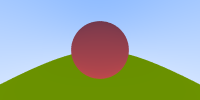
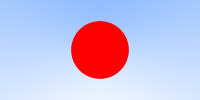
finished textures, untested

diff --git a/source/main.cpp b/source/main.cpp
@@ -14,6 +14,10 @@
 #include "Material.h"
 #include "Lambertian.h"
 
+#include "Texture.h"
+#include "ConstantTexture.h"
+#include "CheckerTexture.h"
+
 using namespace rtow::render;
 using namespace rtow::math;
 using namespace rtow::scene;
@@ -21,24 +25,16 @@ using namespace rtow::scene;
 Vector3
 getColor (
     Ray p_r,
-    Intersectable* p_world,
+    Intersectable *p_world,
     int p_depth=0
 ) {
     Intersection intersectionRecord;
     bool primaryRayHit = p_world->intersect(p_r, 0.01f, 100.0f, intersectionRecord);
 
-    if (primaryRayHit && p_depth < 1) {
+    if (primaryRayHit) {
         Ray scatterRay;
         Vector3 attenuation;
-        
-//        std::cout << "Ray O " << p_r.origin() << std::endl;
-//        std::cout << "Ray D " << p_r.direction() << std::endl;
-        
-//        std::cout << "IR P " << intersectionRecord.point << std::endl;
-//        std::cout << "IR D " << intersectionRecord.distance << std::endl;
-//        std::cout << "IR N " << intersectionRecord.normal << std::endl;
-//        std::cout << "IR M " << &intersectionRecord.material << std::endl;
-      
+/*
         bool scatterRayHit = intersectionRecord.material->scatter(
             p_r, 
             intersectionRecord,
@@ -46,17 +42,11 @@ getColor (
             scatterRay
         );
 
-//        std::cout << "SRay O " << scatterRay.origin() << std::endl;
-//        std::cout << "SRay D " << scatterRay.direction() << std::endl;
-        
-//        std::cout << "A " << attenuation << std::endl;
-//        std::cout << std::endl;
-    
-        if (scatterRayHit) {
+        if (scatterRayHit && p_depth < 1) {
             return attenuation * getColor(scatterRay, p_world, p_depth+1);
         } else {
             return Vector3(0,0,0);
-        }
+        }*/ return Vector3(1,0,0);
     }
 
     else {
@@ -68,8 +58,8 @@ getColor (
 
 int main() {
     Intersectable *world = new IntersectableList({
-        new Sphere(Vector3(0, 0, -1), 0.5f, new Lambertian(Vector3(0.8, 0.3, 0.3))),
-        new Sphere(Vector3(0, -100.5, -50), 100.0f, new Lambertian(Vector3(0.8, 0.8, 0.0)))
+        new Sphere(Vector3(0, 0, -1), 0.5f, new Lambertian(new ConstantTexture(Vector3(0.8, 0.3, 0.3)))),
+       // new Sphere(Vector3(0, -100.5, -50), 100.0f, new Lambertian(Vector3(0.8, 0.8, 0.0)))
     });
 
     uint numSamples = 100;

diff --git a/source/CheckerTexture.cpp b/source/CheckerTexture.cpp
@@ -1,0 +1,36 @@
+
+#include "CheckerTexture.h"
+
+using namespace rtow::render;
+
+CheckerTexture::CheckerTexture (
+    Texture *p_even,
+    Texture *p_odd
+) {
+    m_even = p_even;
+    m_odd = p_odd;
+}
+
+CheckerTexture::~CheckerTexture () {
+    free(m_even);
+    free(m_odd);
+}
+
+Vector3
+CheckerTexture::value (
+    float p_ts_x,
+    float p_ts_y,
+    Vector3 p_ws_xyz
+) {
+    int tileWidth = 10;
+    float sines = 
+        sin(tileWidth * p_ws_xyz.x()) 
+      * sin(tileWidth * p_ws_xyz.y())
+      * sin(tileWidth * p_ws_xyz.z());
+
+    if (sines < 0) {
+        return m_odd->value(p_ts_x, p_ts_y, p_ws_xyz);
+    }  else {
+        return m_even->value(p_ts_x, p_ts_y, p_ws_xyz);
+    }
+}

diff --git a/include/Lambertian.h b/include/Lambertian.h
@@ -2,6 +2,7 @@
 #pragma once
 
 #include "Material.h"
+#include "Texture.h"
 #include "Random.h"
 #include "Vector3.h"
 
@@ -12,11 +13,13 @@ namespace rtow {
     namespace render {
         class Lambertian : public Material {
             public:
-                Lambertian (Vector3 albedo);
+                Lambertian (Texture *albedo);
+                ~Lambertian ();
+
                 virtual bool scatter (Ray in, Intersection record, Vector3 &attentuation, Ray &out);
 
             private:
-                Vector3 m_albedo;
+                Texture *m_albedo;
         };
     };
 };

diff --git a/source/Lambertian.cpp b/source/Lambertian.cpp
@@ -3,12 +3,14 @@
 
 using namespace rtow::render;
 
-#include <iostream>
-
 Lambertian::Lambertian (
-    Vector3 p_albedo
+    Texture *p_albedo
 ) {
     m_albedo = p_albedo;
+}
+
+Lambertian::~Lambertian () {
+    free(m_albedo);
 }
 
 bool
@@ -18,9 +20,7 @@ Lambertian::scatter (
     Vector3 &p_attenuation, 
     Ray &p_scatterOut
 ) {
-//    std::cout << "in scatter" << std::endl;
-
-    p_attenuation = m_albedo;
+    p_attenuation = m_albedo->value(0, 0, p_record.point);
     p_scatterOut = Ray(
         p_record.point, 
         p_record.normal

diff --git a/include/CheckerTexture.h b/include/CheckerTexture.h
@@ -1,0 +1,20 @@
+
+#pragma once
+
+#include "Texture.h"
+
+namespace rtow {
+    namespace render {
+        class CheckerTexture : public Texture {
+            public:
+                CheckerTexture (Texture *even, Texture *odd);
+                ~CheckerTexture();
+
+                virtual Vector3 value (float ts_x, float ts_y, Vector3 ws_xyz);
+
+            private:
+                Texture *m_even;
+                Texture *m_odd;
+        };
+    };
+};

diff --git a/include/ConstantTexture.h b/include/ConstantTexture.h
@@ -1,0 +1,18 @@
+
+#pragma once
+
+#include "Vector3.h"
+#include "Texture.h"
+
+namespace rtow {
+    namespace render {
+        class ConstantTexture : public Texture {
+            public:
+                ConstantTexture (Vector3 rgb);
+                virtual Vector3 value (float ts_x, float ts_y, Vector3 ws_xyz);
+            
+            private:
+                Vector3 m_color;
+        };
+    };
+};

diff --git a/source/ConstantTexture.cpp b/source/ConstantTexture.cpp
@@ -1,0 +1,19 @@
+
+#include "ConstantTexture.h"
+
+using namespace rtow::render;
+
+ConstantTexture::ConstantTexture(
+    Vector3 p_rgb
+) {
+    m_color = p_rgb;
+}
+
+Vector3
+ConstantTexture::value (
+    float p_ts_x, 
+    float p_ts_y, 
+    Vector3 p_ws_xyz
+) {
+    return m_color;
+}

diff --git a/include/Texture.h b/include/Texture.h
@@ -1,0 +1,15 @@
+
+#pragma once
+
+#include "Vector3.h"
+
+using namespace rtow::math;
+
+namespace rtow {
+    namespace render {
+        class Texture {
+            public:
+                virtual Vector3 value (float ts_x, float ts_y, Vector3 ws_xyz) = 0;
+        };
+    };
+};
